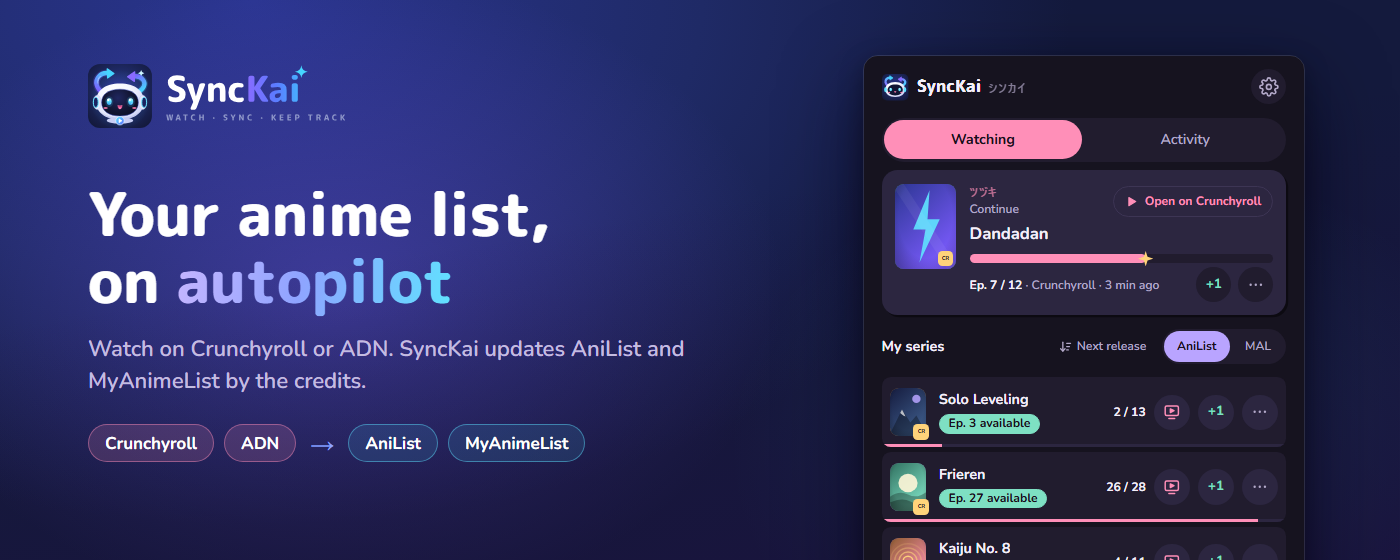
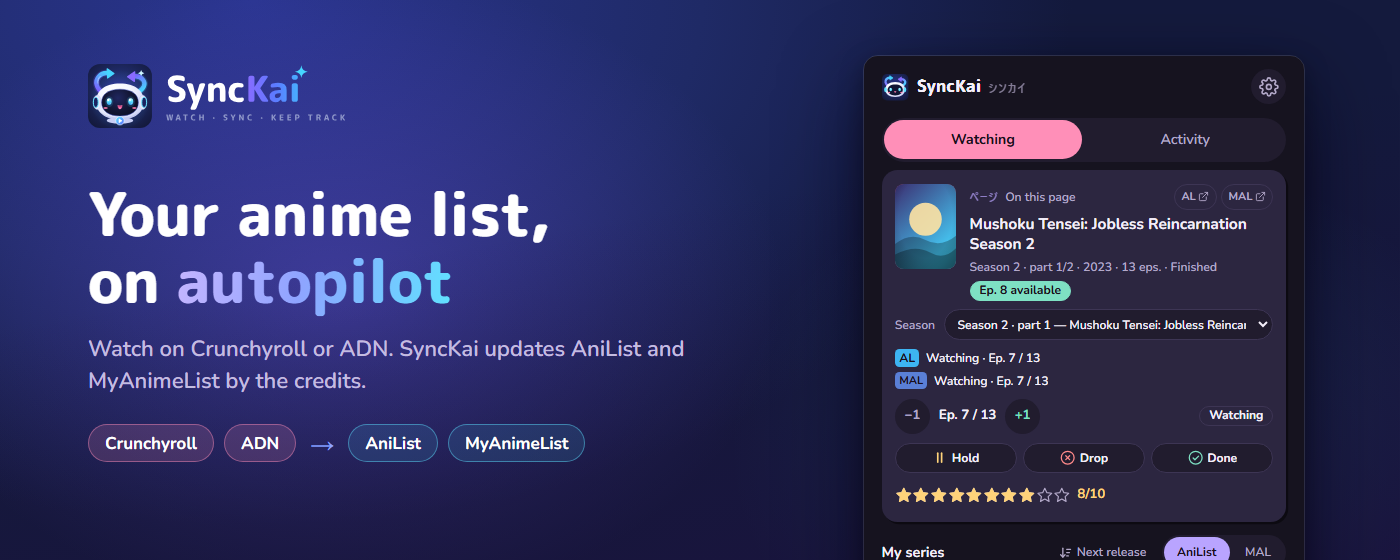
chore: tuile promo 1400×560 avec la fiche « Sur cette page » (1.8)

Changed region(s): [[0.6143, 0.3036, 0.9214, 1.0], [0.7986, 0.7286, 0.9214, 0.7589], [0.7986, 0.3339, 0.9214, 0.3643]]

diff --git a/scripts/screenshots/banner.ts b/scripts/screenshots/banner.ts
@@ -128,7 +128,8 @@ function marqueeParts(): HTMLElement[] {
   const w = POPUP.width * zoom;
   const h = POPUP.height * zoom;
   const win = el('div', 'window', { left: px(MARQUEE.width - 96 - w), top: px(56), width: px(w), height: px(h) });
-  win.append(frame(popupSrc('watching', zoom), w, h));
+  // Écran de la dernière version : carte « Sur cette page » (1.8) en tête du popup
+  win.append(frame(popupSrc('page', zoom), w, h));
   return [logo, box, win];
 }
 
